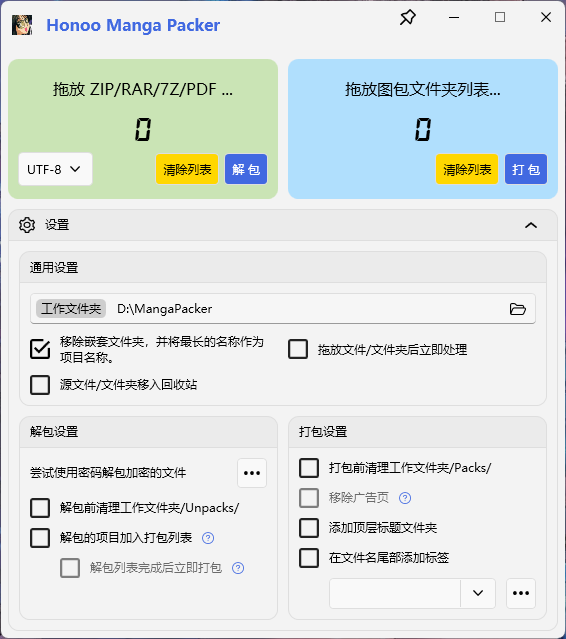
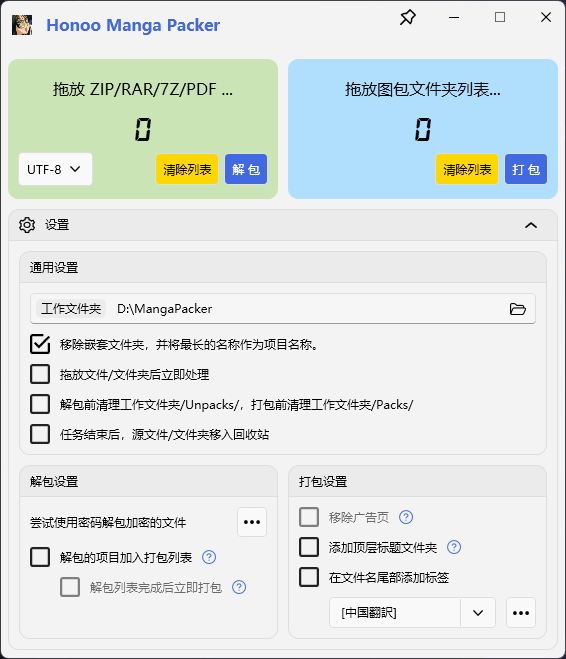
v1.5.3

diff --git a/Honoo Manga Packer/MainWindow.xaml b/Honoo Manga Packer/MainWindow.xaml
@@ -285,18 +285,8 @@
                                 VerticalAlignment="Center"
                                 Text="通用设置" />
                         </GroupBox.Header>
-                        <Grid Margin="10">
-                            <Grid.ColumnDefinitions>
-                                <ColumnDefinition />
-                                <ColumnDefinition />
-                            </Grid.ColumnDefinitions>
-                            <Grid.RowDefinitions>
-                                <RowDefinition />
-                                <RowDefinition />
-                                <RowDefinition />
-                                <RowDefinition />
-                            </Grid.RowDefinitions>
-                            <Grid Grid.ColumnSpan="2">
+                        <StackPanel Margin="10">
+                            <Grid>
                                 <Grid.ColumnDefinitions>
                                     <ColumnDefinition />
                                     <ColumnDefinition Width="Auto" />
@@ -306,7 +296,7 @@
                                         <Border
                                             Margin="5,5,0,5"
                                             VerticalAlignment="Stretch"
-                                            Background="#FFCECECE"
+                                            Background="#FFECECEC"
                                             CornerRadius="5">
                                             <TextBlock Margin="5,2" Text="工作文件夹" />
                                         </Border>
@@ -325,28 +315,27 @@
                                 </hui:TextBox>
                             </Grid>
                             <CheckBox
-                                Grid.Row="1"
-                                Margin="0,10,5,0"
+                                Margin="0,10,0,0"
                                 HorizontalAlignment="Left"
                                 IsChecked="{Binding Settings.ResetName, Mode=TwoWay}">
-                                <TextBlock>
-                                    移除嵌套文件夹，并将最长的名称作为<LineBreak />
-                                    项目名称。</TextBlock>
+                                <TextBlock Text="移除嵌套文件夹，并将最长的名称作为项目名称。" />
                             </CheckBox>
                             <CheckBox
-                                Grid.Row="2"
-                                Margin="0,10,5,0"
-                                HorizontalAlignment="Left"
-                                Content="源文件/文件夹移入回收站"
-                                IsChecked="{Binding Settings.MoveToRecycleBin, Mode=TwoWay}" />
-                            <CheckBox
-                                Grid.Row="1"
-                                Grid.Column="1"
-                                Margin="5,10,0,0"
+                                Margin="0,10,0,0"
                                 HorizontalAlignment="Left"
                                 Content="拖放文件/文件夹后立即处理"
                                 IsChecked="{Binding Settings.ExecuteAtDrop, Mode=TwoWay}" />
-                        </Grid>
+                            <CheckBox
+                                Margin="0,10,0,0"
+                                HorizontalAlignment="Left"
+                                Content="解包前清理工作文件夹/Unpacks/，打包前清理工作文件夹/Packs/"
+                                IsChecked="{Binding Settings.ClearWorkDirectly, Mode=TwoWay}" />
+                            <CheckBox
+                                Margin="0,10,0,0"
+                                HorizontalAlignment="Left"
+                                Content="任务结束后，源文件/文件夹移入回收站"
+                                IsChecked="{Binding Settings.MoveToRecycleBin, Mode=TwoWay}" />
+                        </StackPanel>
                     </GroupBox>
                     <GroupBox
                         Grid.Row="1"
@@ -380,11 +369,6 @@
                                         Style="{StaticResource PathIcon16Style}" />
                                 </Button>
                             </Grid>
-                            <CheckBox
-                                Margin="0,10,0,0"
-                                HorizontalAlignment="Left"
-                                Content="解包前清理工作文件夹/Unpacks/"
-                                IsChecked="{Binding Settings.UnpackClearWorkDirectly, Mode=TwoWay}" />
                             <Grid Margin="0,10,0,0" HorizontalAlignment="Left">
                                 <Grid.ColumnDefinitions>
                                     <ColumnDefinition />
@@ -403,7 +387,7 @@
                                     <Path
                                         Data="{StaticResource QuestionGeometry}"
                                         Fill="{DynamicResource AccentBrush}"
-                                        Style="{StaticResource PathIcon12Style}" />
+                                        Style="{StaticResource PathIcon14Style}" />
                                 </Border>
                             </Grid>
                             <Grid Margin="30,10,0,0" HorizontalAlignment="Left">
@@ -424,7 +408,7 @@
                                     <Path
                                         Data="{StaticResource QuestionGeometry}"
                                         Fill="{DynamicResource AccentBrush}"
-                                        Style="{StaticResource PathIcon12Style}" />
+                                        Style="{StaticResource PathIcon14Style}" />
                                 </Border>
                             </Grid>
 
@@ -444,38 +428,45 @@
                                 Text="打包设置" />
                         </GroupBox.Header>
                         <StackPanel Margin="10">
-                            <CheckBox
-                                HorizontalAlignment="Left"
-                                Content="打包前清理工作文件夹/Packs/"
-                                IsChecked="{Binding Settings.PackClearWorkDirectly, Mode=TwoWay}" />
-                            <Grid Margin="0,10,0,0">
+                            <Grid HorizontalAlignment="Left">
                                 <Grid.ColumnDefinitions>
-                                    <ColumnDefinition Width="Auto" />
                                     <ColumnDefinition />
                                     <ColumnDefinition Width="Auto" />
                                 </Grid.ColumnDefinitions>
                                 <CheckBox
-                                    HorizontalAlignment="Left"
                                     Content="移除广告页"
                                     IsChecked="{Binding Settings.DeleteAD, Mode=TwoWay}"
                                     IsEnabled="False" />
                                 <Border
                                     Grid.Column="1"
                                     Margin="10,0,0,0"
-                                    HorizontalAlignment="Left"
+                                    VerticalAlignment="Center"
                                     Background="Transparent"
                                     ToolTip="需要广告列表文件。打包速度慢。">
                                     <Path
                                         Data="{StaticResource QuestionGeometry}"
                                         Fill="{DynamicResource AccentBrush}"
-                                        Style="{StaticResource PathIcon12Style}" />
+                                        Style="{StaticResource PathIcon14Style}" />
                                 </Border>
                             </Grid>
-                            <CheckBox
-                                Margin="0,10,0,0"
-                                HorizontalAlignment="Left"
-                                Content="添加顶层标题文件夹"
-                                IsChecked="{Binding Settings.AddTopTitle, Mode=TwoWay}" />
+                            <Grid Margin="0,10,0,0" HorizontalAlignment="Left">
+                                <Grid.ColumnDefinitions>
+                                    <ColumnDefinition />
+                                    <ColumnDefinition Width="Auto" />
+                                </Grid.ColumnDefinitions>
+                                <CheckBox Content="添加顶层标题文件夹" IsChecked="{Binding Settings.AddTopTitle, Mode=TwoWay}" />
+                                <Border
+                                    Grid.Column="1"
+                                    Margin="10,0,0,0"
+                                    VerticalAlignment="Center"
+                                    Background="Transparent"
+                                    ToolTip="将打包的文件放置在一个新文件夹中，名称和文件名相同">
+                                    <Path
+                                        Data="{StaticResource QuestionGeometry}"
+                                        Fill="{DynamicResource AccentBrush}"
+                                        Style="{StaticResource PathIcon14Style}" />
+                                </Border>
+                            </Grid>
                             <CheckBox
                                 Margin="0,10,0,0"
                                 HorizontalAlignment="Left"

diff --git a/Honoo Manga Packer/UserControls/PasswordDialogUserControl.xaml b/Honoo Manga Packer/UserControls/PasswordDialogUserControl.xaml
@@ -30,7 +30,7 @@
                 <Border
                     Margin="5,5,0,5"
                     VerticalAlignment="Stretch"
-                    Background="#FFCECECE"
+                    Background="#FFECECEC"
                     CornerRadius="5">
                     <TextBlock Margin="5,2" Text="新密码" />
                 </Border>

diff --git a/Honoo Manga Packer/UserControls/TagDialogUserControl.xaml b/Honoo Manga Packer/UserControls/TagDialogUserControl.xaml
@@ -30,7 +30,7 @@
                 <Border
                     Margin="5,5,0,5"
                     VerticalAlignment="Stretch"
-                    Background="#FFCECECE"
+                    Background="#FFECECEC"
                     CornerRadius="5">
                     <TextBlock Margin="5,2" Text="新标签" />
                 </Border>

diff --git a/Honoo Manga Packer/Models/Settings.cs b/Honoo Manga Packer/Models/Settings.cs
@@ -19,10 +19,10 @@ namespace Honoo.MangaPacker.Models
         private readonly ObservableCollection<string> _tags = ["[中国翻訳]"];
         private bool _addTag;
         private bool _addTopTitle;
+        private bool _clearWorkDirectly = false;
         private bool _deleteAD;
         private bool _executeAtDrop;
         private bool _moveToRecycleBin;
-        private bool _packClearWorkDirectly = false;
         private bool _packUnpacks;
         private bool _passwordRemoveConfirm = true;
         private ObservableDictionary<string, int> _passwords = [];
@@ -31,7 +31,6 @@ namespace Honoo.MangaPacker.Models
         private bool _settingExpanded = true;
         private bool _tagRemoveConfirm = true;
         private bool _topmost;
-        private bool _unpackClearWorkDirectly = false;
         private string _unpackEncoding = "UTF-8";
         private bool _unpacksMoveToPacks;
         private int _windowLeft = 300;
@@ -41,10 +40,10 @@ namespace Honoo.MangaPacker.Models
         public bool AddTag { get => _addTag; set => SetProperty(ref _addTag, value); }
         public bool AddTopTitle { get => _addTopTitle; set => SetProperty(ref _addTopTitle, value); }
         public ObservableDictionary<string, int> ADs => _ads;
+        public bool ClearWorkDirectly { get => _clearWorkDirectly; set => SetProperty(ref _clearWorkDirectly, value); }
         public bool DeleteAD { get => _deleteAD; set => SetProperty(ref _deleteAD, value); }
         public bool ExecuteAtDrop { get => _executeAtDrop; set => SetProperty(ref _executeAtDrop, value); }
         public bool MoveToRecycleBin { get => _moveToRecycleBin; set => SetProperty(ref _moveToRecycleBin, value); }
-        public bool PackClearWorkDirectly { get => _packClearWorkDirectly; set => SetProperty(ref _packClearWorkDirectly, value); }
         public bool PackUnpacks { get => _packUnpacks; set => SetProperty(ref _packUnpacks, value); }
         public bool PasswordRemoveConfirm { get => _passwordRemoveConfirm; set => SetProperty(ref _passwordRemoveConfirm, value); }
         public ObservableDictionary<string, int> Passwords { get => _passwords; set => SetProperty(ref _passwords, value); }
@@ -54,7 +53,6 @@ namespace Honoo.MangaPacker.Models
         public bool TagRemoveConfirm { get => _tagRemoveConfirm; set => SetProperty(ref _tagRemoveConfirm, value); }
         public ObservableCollection<string> Tags => _tags;
         public bool Topmost { get => _topmost; set => SetProperty(ref _topmost, value); }
-        public bool UnpackClearWorkDirectly { get => _unpackClearWorkDirectly; set => SetProperty(ref _unpackClearWorkDirectly, value); }
         public string UnpackEncoding { get => _unpackEncoding; set => SetProperty(ref _unpackEncoding, value); }
         public string[] UnpackEncodings { get; } = ["UTF-8", "GBK"];
         public bool UnpacksMoveToPacks { get => _unpacksMoveToPacks; set => SetProperty(ref _unpacksMoveToPacks, value); }
@@ -85,14 +83,13 @@ namespace Honoo.MangaPacker.Models
                 ModelLocator.Settings.SettingExpanded = manager.Default.Properties.GetValue("SettingExpanded", new XString(ModelLocator.Settings.SettingExpanded.ToString(CultureInfo.InvariantCulture))).GetBooleanValue();
                 ModelLocator.Settings.WorkDirectly = manager.Default.Properties.GetValue("WorkDirectly", new XString(ModelLocator.Settings.WorkDirectly)).GetStringValue();
                 ModelLocator.Settings.ResetName = manager.Default.Properties.GetValue("ResetName", new XString(ModelLocator.Settings.ResetName.ToString(CultureInfo.InvariantCulture))).GetBooleanValue();
-                ModelLocator.Settings.MoveToRecycleBin = manager.Default.Properties.GetValue("MoveToRecycleBin", new XString(ModelLocator.Settings.MoveToRecycleBin.ToString(CultureInfo.InvariantCulture))).GetBooleanValue();
                 ModelLocator.Settings.ExecuteAtDrop = manager.Default.Properties.GetValue("ExecuteAtDrop", new XString(ModelLocator.Settings.ExecuteAtDrop.ToString(CultureInfo.InvariantCulture))).GetBooleanValue();
+                ModelLocator.Settings.ClearWorkDirectly = manager.Default.Properties.GetValue("ClearWorkDirectly", new XString(ModelLocator.Settings.ClearWorkDirectly.ToString(CultureInfo.InvariantCulture))).GetBooleanValue();
+                ModelLocator.Settings.MoveToRecycleBin = manager.Default.Properties.GetValue("MoveToRecycleBin", new XString(ModelLocator.Settings.MoveToRecycleBin.ToString(CultureInfo.InvariantCulture))).GetBooleanValue();
                 ModelLocator.Settings.PasswordRemoveConfirm = manager.Default.Properties.GetValue("PasswordRemoveConfirm", new XString(ModelLocator.Settings.PasswordRemoveConfirm.ToString(CultureInfo.InvariantCulture))).GetBooleanValue();
                 ModelLocator.Settings.UnpackEncoding = manager.Default.Properties.GetValue("UnpackEncoding", new XString(ModelLocator.Settings.UnpackEncoding.ToString(CultureInfo.InvariantCulture))).GetStringValue();
-                ModelLocator.Settings.UnpackClearWorkDirectly = manager.Default.Properties.GetValue("UnpackClearWorkDirectly", new XString(ModelLocator.Settings.UnpackClearWorkDirectly.ToString(CultureInfo.InvariantCulture))).GetBooleanValue();
                 ModelLocator.Settings.UnpacksMoveToPacks = manager.Default.Properties.GetValue("UnpacksMoveToPacks", new XString(ModelLocator.Settings.UnpacksMoveToPacks.ToString(CultureInfo.InvariantCulture))).GetBooleanValue();
                 ModelLocator.Settings.PackUnpacks = manager.Default.Properties.GetValue("PackUnpacks", new XString(ModelLocator.Settings.PackUnpacks.ToString(CultureInfo.InvariantCulture))).GetBooleanValue();
-                ModelLocator.Settings.PackClearWorkDirectly = manager.Default.Properties.GetValue("PackClearWorkDirectly", new XString(ModelLocator.Settings.PackClearWorkDirectly.ToString(CultureInfo.InvariantCulture))).GetBooleanValue();
                 ModelLocator.Settings.DeleteAD = manager.Default.Properties.GetValue("DeleteAD", new XString(ModelLocator.Settings.DeleteAD.ToString(CultureInfo.InvariantCulture))).GetBooleanValue();
                 ModelLocator.Settings.AddTopTitle = manager.Default.Properties.GetValue("AddTopTitle", new XString(ModelLocator.Settings.AddTopTitle.ToString(CultureInfo.InvariantCulture))).GetBooleanValue();
                 if (manager.Default.Properties.TryGetValue("Tags", out XList tags))
@@ -137,14 +134,13 @@ namespace Honoo.MangaPacker.Models
                 manager.Default.Properties.AddOrUpdate("SettingExpanded", new XString(ModelLocator.Settings.SettingExpanded.ToString(CultureInfo.InvariantCulture)));
                 manager.Default.Properties.AddOrUpdate("WorkDirectly", new XString(ModelLocator.Settings.WorkDirectly));
                 manager.Default.Properties.AddOrUpdate("ResetName", new XString(ModelLocator.Settings.ResetName.ToString(CultureInfo.InvariantCulture)));
-                manager.Default.Properties.AddOrUpdate("MoveToRecycleBin", new XString(ModelLocator.Settings.MoveToRecycleBin.ToString(CultureInfo.InvariantCulture)));
                 manager.Default.Properties.AddOrUpdate("ExecuteAtDrop", new XString(ModelLocator.Settings.ExecuteAtDrop.ToString(CultureInfo.InvariantCulture)));
+                manager.Default.Properties.AddOrUpdate("ClearWorkDirectly", new XString(ModelLocator.Settings.ClearWorkDirectly.ToString(CultureInfo.InvariantCulture)));
+                manager.Default.Properties.AddOrUpdate("MoveToRecycleBin", new XString(ModelLocator.Settings.MoveToRecycleBin.ToString(CultureInfo.InvariantCulture)));
                 manager.Default.Properties.AddOrUpdate("PasswordRemoveConfirm", new XString(ModelLocator.Settings.PasswordRemoveConfirm.ToString(CultureInfo.InvariantCulture)));
                 manager.Default.Properties.AddOrUpdate("UnpackEncoding", new XString(ModelLocator.Settings.UnpackEncoding.ToString(CultureInfo.InvariantCulture)));
-                manager.Default.Properties.AddOrUpdate("UnpackClearWorkDirectly", new XString(ModelLocator.Settings.UnpackClearWorkDirectly.ToString(CultureInfo.InvariantCulture)));
                 manager.Default.Properties.AddOrUpdate("UnpacksMoveToPacks", new XString(ModelLocator.Settings.UnpacksMoveToPacks.ToString(CultureInfo.InvariantCulture)));
                 manager.Default.Properties.AddOrUpdate("PackUnpacks", new XString(ModelLocator.Settings.PackUnpacks.ToString(CultureInfo.InvariantCulture)));
-                manager.Default.Properties.AddOrUpdate("PackClearWorkDirectly", new XString(ModelLocator.Settings.PackClearWorkDirectly.ToString(CultureInfo.InvariantCulture)));
                 manager.Default.Properties.AddOrUpdate("DeleteAD", new XString(ModelLocator.Settings.DeleteAD.ToString(CultureInfo.InvariantCulture)));
                 manager.Default.Properties.AddOrUpdate("AddTopTitle", new XString(ModelLocator.Settings.AddTopTitle.ToString(CultureInfo.InvariantCulture)));
                 XList tags = manager.Default.Properties.AddOrUpdate("Tags", new XList());

diff --git a/Honoo Manga Packer/ViewModels/MainWindowViewModel.cs b/Honoo Manga Packer/ViewModels/MainWindowViewModel.cs
@@ -127,7 +127,7 @@ namespace Honoo.MangaPacker.ViewModels
                     this.PackErrorMessages.Clear();
                     bool dirOk = true;
                     var dir = new DirectoryInfo(Path.Combine(Path.Combine(this.Settings.WorkDirectly, "Packs")));
-                    if (this.Settings.PackClearWorkDirectly)
+                    if (this.Settings.ClearWorkDirectly)
                     {
                         if (dir.Exists)
                         {
@@ -249,7 +249,7 @@ namespace Honoo.MangaPacker.ViewModels
                     this.UnpackErrorMessages.Clear();
                     bool dirOk = true;
                     var dir = new DirectoryInfo(Path.Combine(Path.Combine(this.Settings.WorkDirectly, "Unpacks")));
-                    if (this.Settings.UnpackClearWorkDirectly)
+                    if (this.Settings.ClearWorkDirectly)
                     {
                         if (dir.Exists)
                         {

diff --git a/README.md b/README.md
@@ -4,7 +4,7 @@
   - [INTRODUCTION](#introduction)
   - [SCREENSHOTS](#screenshots)
   - [CHANGELOG](#changelog)
-    - [1.5.2](#152)
+    - [1.5.3](#153)
   - [COMPONENTS](#components)
   - [LICENSE](#license)
 
@@ -22,7 +22,7 @@
 
 ## CHANGELOG
 
-### 1.5.2
+### 1.5.3
 
 **Refactored* 重构。
 
